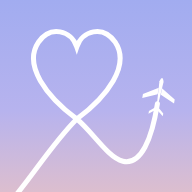
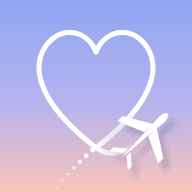
앱 아이콘 확정(하트+도트 꼬리+그림자 비행기), 인트로 마지막 장면도 같은 모양으로
Claude-Session: https://claude.ai/code/session_01N3yozwcTCu1pnqp2ALH7G9

Changed region(s): [[0.0, 0.125, 1.0, 1.0]]

diff --git a/app.js b/app.js
@@ -446,10 +446,30 @@ function toggleSound(){state.sound=!state.sound;LS.set('sound',state.sound);if(!
 let introTimers=[];
 const clearTimers=()=>{introTimers.forEach(clearTimeout);introTimers=[];};
 const at=(ms,fn)=>introTimers.push(setTimeout(fn,ms));
+const HEART_ENTRY='M-40 860 C 40 760, 120 620, 200 560',HEART_LOOP=' C 280 500, 340 420, 300 360 C 268 314, 214 330, 200 372 C 186 330, 132 314, 100 360 C 60 420, 120 500, 200 560',HEART_TAIL=' C 260 604, 330 520, 460 300';
+// dots along the incoming line, faint and small far away, full near the heart; each is shown once the plane passes it
+function heartDots(el){const g=el.querySelector('#hdots'),pe=el.querySelector('#hpe');if(!g||!pe||g.childNodes.length)return [];const Le=pe.getTotalLength(),out=[];
+  for(let k=6;k<Le-4;k+=13){const u=k/Le,o=pe.getPointAtLength(k),c=document.createElementNS('http://www.w3.org/2000/svg','circle');
+    c.setAttribute('cx',o.x.toFixed(1));c.setAttribute('cy',o.y.toFixed(1));c.setAttribute('r',(1.3+1.4*u).toFixed(2));c.dataset.o=(0.25+0.75*u).toFixed(2);c.dataset.k=k;c.style.opacity=0;g.appendChild(c);out.push(c);}
+  return out;}
+function heartAt(el,len){const hp=el.querySelector('#hp'),hs=el.querySelector('#hs'),pe=el.querySelector('#hpe'),ap=el.querySelector('#aplane'),mc=el.querySelector('#pmc');
+  const Le=pe.getTotalLength(),Ls=hs.getTotalLength(),L=hp.getTotalLength();len=Math.min(L,len);
+  el.querySelectorAll('#hdots circle').forEach(c=>{c.style.opacity=len>=+c.dataset.k?c.dataset.o:0;});
+  hs.style.strokeDasharray=Ls;hs.style.strokeDashoffset=Ls-Math.max(0,Math.min(Ls,len-Le));
+  const p=hp.getPointAtLength(len),q=hp.getPointAtLength(Math.max(0,len-1)),ang=Math.atan2(p.y-q.y,p.x-q.x)*180/Math.PI;
+  ap.setAttribute('transform',`translate(${p.x} ${p.y}) rotate(${ang})`);
+  // the line is faint right behind the plane and fills in as the plane moves on
+  const t=hp.getPointAtLength(Math.max(0,len-22));mc.setAttribute('cx',t.x);mc.setAttribute('cy',t.y);}
 const finaleSC=()=>`<div class="sc final"><svg class="art" viewBox="0 0 400 800" preserveAspectRatio="xMidYMid slice"><defs><linearGradient id="skyA" x1="0" y1="0" x2="0" y2="1"><stop offset="0" stop-color="#a9c8f6"/><stop offset=".6" stop-color="#cfe0fb"/><stop offset="1" stop-color="#f1e6f7"/></linearGradient></defs>
   <rect width="400" height="800" fill="url(#skyA)"/>${cloud(-40,120,1.6,.75)}${cloud(250,240,1.2,.6)}${cloud(-20,560,2,.85)}${cloud(230,640,2.4,.9)}${cloud(120,420,1,.5)}
-  <path id="hp" d="M-40 860 C 40 760, 120 620, 200 560 C 280 500, 340 420, 300 360 C 268 314, 214 330, 200 372 C 186 330, 132 314, 100 360 C 60 420, 120 500, 200 560 C 240 592, 280 660, 320 670 C 380 684, 420 560, 470 330" fill="none" stroke="#fff" stroke-width="5" stroke-linecap="round" style="stroke-dasharray:3000;stroke-dashoffset:3000"/>
-  <g id="aplane" transform="translate(-60 900)"><g transform="scale(1.4)">${planeTop('#ffffff','#b9c3ea')}</g></g></svg>
+  <defs><radialGradient id="pgr"><stop offset="0" stop-color="#222"/><stop offset=".55" stop-color="#999"/><stop offset="1" stop-color="#fff"/></radialGradient>
+    <mask id="pmask" maskUnits="userSpaceOnUse" x="-200" y="-200" width="900" height="1300"><rect x="-200" y="-200" width="900" height="1300" fill="#fff"/><circle id="pmc" cx="-300" cy="-300" r="44" fill="url(#pgr)"/></mask>
+    <filter id="psh" x="-60%" y="-60%" width="220%" height="220%"><feDropShadow dx="9" dy="12" stdDeviation="4" flood-color="#3b3f86" flood-opacity=".22"/></filter></defs>
+  ${''/* the app icon's mark: a dotted line comes in, draws the heart, and the plane climbs away */}
+  <path id="hp" d="${HEART_ENTRY}${HEART_LOOP}${HEART_TAIL}" fill="none" stroke="none"/><path id="hpe" d="${HEART_ENTRY}" fill="none" stroke="none"/>
+  <g id="hdots" fill="#fff"></g>
+  <path id="hs" d="M200 560 ${HEART_LOOP}${HEART_TAIL}" fill="none" stroke="#fff" stroke-width="5" stroke-linecap="round" mask="url(#pmask)" style="stroke-dasharray:3000;stroke-dashoffset:3000"/>
+  <g filter="url(#psh)"><g id="aplane" transform="translate(-60 900)"><g transform="scale(1.8)">${planeTop('#ffffff','#d4d9f3')}</g></g></g></svg>
   <div class="txt"><h2 class="rise">${esc(trip().title)}</h2><div class="en rise d1">${esc(rangeText())}</div></div>
   <button class="cta go-a rise d3" data-enter>여행 시작하기 ${svg('chev')}</button></div>`;
 // the intro's boarding pass shows the real way-out flight: codes big, cities small, then date, time and my seat
@@ -476,12 +496,10 @@ function introHTML(){
   </div>`;
 }
 function flyHeart(el){
-  const hp=el.querySelector('#hp'),ap=el.querySelector('#aplane');if(!hp||!ap)return;
+  const hp=el.querySelector('#hp');if(!hp)return;heartDots(el);
   const L=hp.getTotalLength(),D=4200,t0=performance.now();
-  hp.style.strokeDasharray=L;hp.style.strokeDashoffset=L;
-  const step=now=>{if(!el.querySelector('#hp'))return;const t=Math.min(1,(now-t0)/D),e=t<.5?2*t*t:1-Math.pow(-2*t+2,2)/2,len=L*e;
-    const p=hp.getPointAtLength(len),q=hp.getPointAtLength(Math.min(L,len+1)),ang=Math.atan2(q.y-p.y,q.x-p.x)*180/Math.PI;
-    hp.style.strokeDashoffset=L-len;ap.setAttribute('transform',`translate(${p.x} ${p.y}) rotate(${ang})`);if(t<1)requestAnimationFrame(step);};
+  const step=now=>{if(!el.querySelector('#hp'))return;const t=Math.min(1,(now-t0)/D),e=t<.5?2*t*t:1-Math.pow(-2*t+2,2)/2;
+    heartAt(el,L*e+(t>=1?40:0));if(t<1)requestAnimationFrame(step);};
   requestAnimationFrame(step);
 }
 function showIntro(){
@@ -492,7 +510,7 @@ function showIntro(){
   const toTicket=()=>{clearTimers();stage=1;show(1);};
   const tear=()=>{if(stage===2)return;stage=2;el.querySelector('[data-tear]').classList.add('torn');const c=audio(true);sfxTear(c);if(!reduced())sfxFly(c,0.8);
     at(reduced()?0:750,()=>{show(2);el._done=true;if(reduced())el._final();else flyHeart(el);});};
-  el._final=()=>{clearTimers();stage=2;show(2);el._done=true;const hp=el.querySelector('#hp');if(hp){hp.style.transition='none';hp.style.strokeDashoffset='0';}const ap=el.querySelector('#aplane');if(ap)ap.setAttribute('transform','translate(470 330) rotate(-78)');};
+  el._final=()=>{clearTimers();stage=2;show(2);el._done=true;heartDots(el);const hp=el.querySelector('#hp');if(hp)heartAt(el,hp.getTotalLength());};
   el._tap=()=>{if(el._done){finishIntro();return;}if(stage===0)toTicket();else tear();};
   show(0);at(reduced()?1200:3600,toTicket);
 }

diff --git a/sw.js b/sw.js
@@ -1,6 +1,6 @@
 /* Offline support: the app shell is cached on install, fonts and the Supabase library are cached on first use.
    Supabase API and storage calls always go to the network; the app keeps its own copy of data and files. */
-const VERSION='taebo-travel-v21';
+const VERSION='taebo-travel-v22';
 const SHELL=['./','index.html','styles.css','data.js','sync.js','app.js','manifest.webmanifest','icons/icon-192.png','icons/icon-512.png','icons/apple-touch-icon.png',
   'vendor/supabase-2.45.4.js','vendor/591.supabase.js','vendor/leaflet-1.9.4/leaflet.js','vendor/leaflet-1.9.4/leaflet.css','vendor/maplibre-gl-4.7.1/maplibre-gl.js','vendor/maplibre-gl-4.7.1/maplibre-gl.css','vendor/maplibre-gl-4.7.1/leaflet-maplibre-gl.js'];
 const TILES='taebo-tiles-v3';
